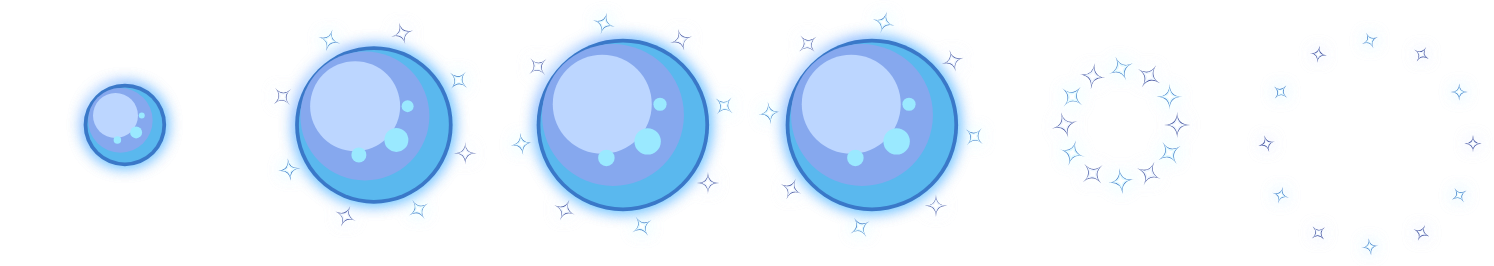
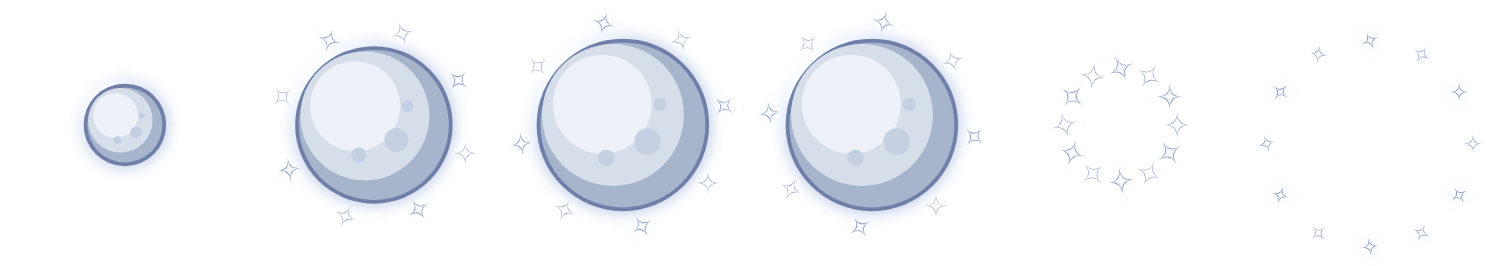
Last Straw's moon in silver, and a dev page to watch the finisher
Her full moon was a saturated blue ball; it's pale silver-white now with
soft grey craters and a cold blue rim. tools/snowwolf-finisher.html runs a
real game world (the game's own code and scene renderer) with a full
gauge and casts Last Straw, to see it whole.

diff --git a/tools/snowwolf-finisher.html b/tools/snowwolf-finisher.html
@@ -1,0 +1,82 @@
+<!doctype html>
+<html><body style="margin:0;background:#222">
+<canvas id="c"></canvas>
+<script type="module">
+// Dev tool: a real game world (the same code the game runs) with a Beastmaster, Snow wolf and a
+// row of training dummies, her gauge full, and Last Straw cast, drawn with the game's own scene
+// renderer. Open /tools/snowwolf-finisher.html (served with the game); ?snack also casts Snack
+// Time first; ?manual steps frames from outside (window.step) for recording.
+import { createWorld, updateWorld, loadMap } from '../src/world/world.js';
+import { createCharacter, gainExp, advanceJob } from '../src/core/character.js';
+import { makeEquip } from '../src/core/items.js';
+import { spawnMob } from '../src/world/mobs.js';
+import { cast } from '../src/world/combat.js';
+import { createCamera, updateCamera, drawWorld } from '../src/render/scene.js';
+import { setHd, nextFrame } from '../src/render/pixel.js';
+import { preloadFxSprites } from '../src/render/fx-sprites.js';
+import { VW, VH } from '../src/input.js';
+
+const q = new URLSearchParams(location.search);
+const canvas = document.getElementById('c');
+const ctx = canvas.getContext('2d');
+const SCALE = 2;
+canvas.width = VW * SCALE;
+canvas.height = VH * SCALE;
+preloadFxSprites();
+
+const c = createCharacter('Tester', {});
+gainExp(c, 1e6);
+advanceJob(c, 'archer');
+c.quests.archer_trial = { state: 'done', kills: {} };
+advanceJob(c, 'beastmaster');
+c.equipment.weapon = makeEquip('bow_20', {});
+Object.assign(c.skills, { stampede: 10, snacktime: 10 });
+c.mp = 9999;
+c.baseMp = 99999;
+const w = createWorld(c);
+loadMap(w, 'woods', 'west');
+w.god = true;
+w.spawner.slots = [];
+w.mobs = [];
+const x0 = 520;
+Object.assign(w.body, { x: x0, y: w.map.groundY, facing: 1, onGround: true });
+for (const dx of [-300, -180, -90, 110, 220, 340]) {
+  const m = spawnMob(w.map, { mob: 'boarlet', x: x0 + dx, y: w.map.groundY });
+  m.def = { ...m.def, hp: 1e9, eva: 0, aggro: false, speed: 0 };
+  m.hp = 1e9;
+  w.mobs.push(m);
+}
+const idle = { held: new Set(), pressed: new Set(), locked: false };
+const cam = createCamera();
+let t = 0;
+for (let i = 0; i < 30; i++) updateWorld(w, 1 / 60, idle);
+if (q.has('snack')) {
+  cast(w, 'snacktime');
+  for (let i = 0; i < 70; i++) updateWorld(w, 1 / 60, idle);
+}
+w.pets.snow.body.x = x0 - 200;
+w.bond = 100;
+w.bondAt = 1e9;
+let cast0 = false;
+function step(dt) {
+  t += dt;
+  if (!cast0 && t > 0.6) {
+    cast0 = true;
+    w.bond = 100;
+    console.log('cast', JSON.stringify(cast(w, 'stampede')));
+  }
+  for (let k = 0; k < Math.round(dt * 60); k++) updateWorld(w, 1 / 60, idle);
+  nextFrame();
+  ctx.setTransform(SCALE, 0, 0, SCALE, 0, 0);
+  ctx.imageSmoothingEnabled = false;
+  setHd(true, SCALE);
+  updateCamera(cam, w, dt);
+  drawWorld(ctx, w, cam, t);
+}
+window.step = step;
+if (!q.has('manual')) {
+  let last = performance.now();
+  const loop = (now) => { step(Math.min(0.05, (now - last) / 1000)); last = now; requestAnimationFrame(loop); };
+  requestAnimationFrame(loop);
+}
+</script></body></html>

diff --git a/tools/fx-art.js b/tools/fx-art.js
@@ -2383,7 +2383,8 @@
   // shadows (her ice-blue eyes and the sword's frost), set apart from the Thief's violet moon.
   const LUNAR = ['#ffffff', '#eef6ff', '#bcd6ff', '#86a8ee', '#3f4f9e'];
   E.lunarcrescent = crescentOf(LUNAR, PAL.ice);
-  E.lunarmoon = moonOf(LUNAR, PAL.ice);
+  // Her full moon: pale silver-white with soft grey craters, a cold blue rim.
+  E.lunarmoon = moonOf(['#ffffff', '#fbfcff', '#eef2f8', '#d6deea', '#8fa0c0'], ['#ffffff', '#e8f0fa', '#c4d0e2', '#a6b4cc', '#6f7fa8']);
   // A crescent of moonlight flying, looping (Crescent Flick, Moon Ward's answer, her Fed Up
   // swings): a thick bright crescent, horns trailing, motes peeling off behind. Drawn flying right;
   // its middle is its anchor.
